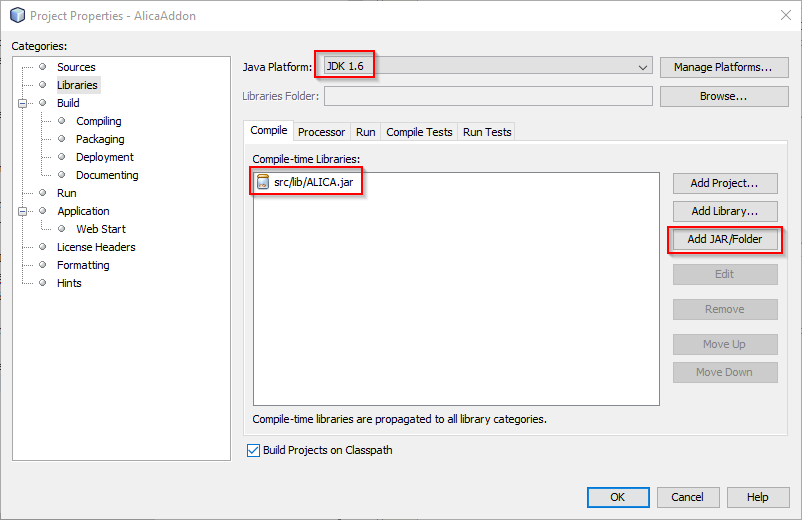
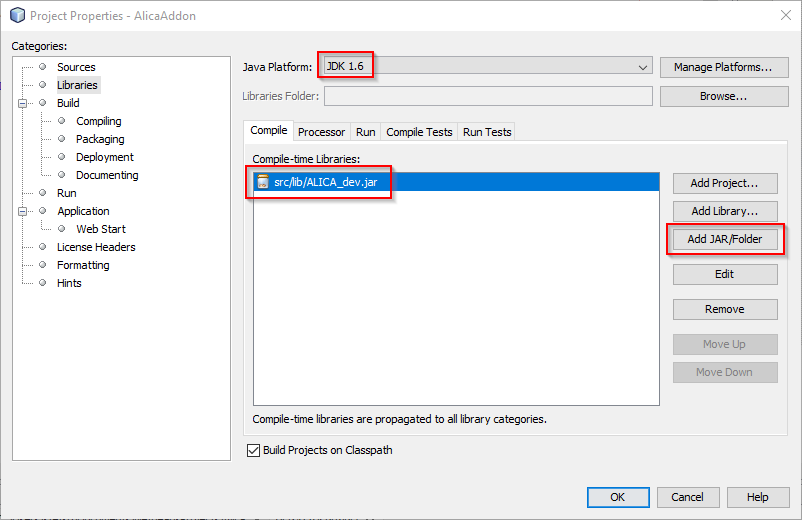
Improved extending guide

diff --git a/docs/source/conf.py b/docs/source/conf.py
@@ -60,9 +60,9 @@ author = 'Marcel Stefko, Kyle M. Douglass'
 # built documents.
 #
 # The short X.Y version.
-version = '0.2.0'
+version = '0.2.1'
 # The full version, including alpha/beta/rc tags.
-release = '0.2.0'
+release = '0.2.1'
 
 # The language for content autogenerated by Sphinx. Refer to documentation
 # for a list of supported languages.

diff --git a/docs/source/extending.rst b/docs/source/extending.rst
@@ -10,7 +10,7 @@ to creating a Controller.
 
 General knowledge of Java programming is assumed and recommended.
 
-**Required JDK version: 1.6.0_31** (Same as MicroManager's)
+**Required JDK version:** ``1.6.0_31`` (Same as MicroManager's)
 
 Implementing a custom Analyzer
 ++++++++++++++++++++++++++++++
@@ -18,11 +18,12 @@ Implementing a custom Analyzer
 Step 1: Importing the Analyzer interface
 ----------------------------------------
 
-First, download the ALICA.jar file from the relevant 
+First, download the ``ALICA_dev.jar`` file from the relevant 
 `release <https://github.com/MStefko/ALICA/releases>`_,
 and include it as a resource of your project (in NetBeans,
-add it to *Project Properties -> Libraries -> Compile-time Libraries*
-using the *Add JAR/Folder* button.
+add it to ``Project Properties -> Libraries -> Compile-time Libraries``
+using the ``Add JAR/Folder`` button). This jar file contains all ALICA libraries,
+as well as necessary MicroManager and ImageJ libraries.
 
 In the same pane, you have to ensure that your JDK version is 1.6
 (same as MicroManager's).
@@ -34,24 +35,28 @@ In the same pane, you have to ensure that your JDK version is 1.6
 Step 2: Implementing the Analyzer and its Setup/Status panels
 -------------------------------------------------------------
 
-Implement the `Analyzer` interface from package `ch.epfl.leb.alica`, and 
-extend the `AnalyzerSetupPanel` and (optionally) `AnalyzerStatusPanel`
-abstract classes from package `ch.epfl.leb.alica.analyzers`. Check the 
+Implement the ``Analyzer`` interface from package ``ch.epfl.leb.alica``, and 
+extend the ``AnalyzerSetupPanel`` and (optionally) ``AnalyzerStatusPanel``
+abstract classes from package ``ch.epfl.leb.alica.analyzers``. Check the 
 `API documentation <_javasphinx/packages.html>`_ for details. You can
 also consult the source code for already implemented Analyzers 
 on `GitHub <https://github.com/MStefko/ALICA/tree/master/src/ch/epfl/leb/alica/analyzers>`_.
 
-To give a little bit of intuition, the `AnalyzerSetupPanel` 
+.. image:: _images/netbeans_analyzer_creation.png
+   :alt: Implementing the Analyzer interface.
+   :align: center
+
+To give a little bit of intuition, the ``AnalyzerSetupPanel`` 
 serves as a Builder for Analyzers. In the Panel, the user can modify 
-initial settings of the Analyzer. When ALICA **Start** button is clicked,
-the `initAnalyzer()` method is triggered, which builds the Analyzer. This 
-Analyzer can provide a `AnalyzerStatusPanel`, which (if provided) is embedded
+initial settings of the Analyzer. When ALICA ``Start`` button is clicked,
+the ``initAnalyzer()`` method is triggered, which builds the Analyzer. This 
+Analyzer can provide a ``AnalyzerStatusPanel``, which (if provided) is embedded
 in the ALICA monitor GUI, and allows further interaction with the Analyzer.
 
 In NetBeans, it is easier to first create a Swing JPanel form, 
 implement user input fields, and then finally change the 
-`implements javax.swing.JPanel` declaration to 
-`extends ch.epfl.leb.alica.analyzers.AnalyzerSetupPanel`, 
+``implements javax.swing.JPanel`` declaration to 
+``extends ch.epfl.leb.alica.analyzers.AnalyzerSetupPanel``, 
 and implement the required methods (similarly for StatusPanel).
 
 .. image:: _images/netbeans_setup_panel_creation.png
@@ -62,8 +67,8 @@ Step 3: Compiling the created Analyzer
 --------------------------------------
 
 Once all required functionality is implemented, compile the project into a
-.jar file. Remember, that the jar filename **must** start with `ALICA_`,
-e.g. `ALICA_MyOwnAnalyzer.jar`. Place this jar file into the `mmplugins/`
+.jar file. Remember, that the jar filename **must** start with ``ALICA_``,
+e.g. ``ALICA_MyOwnAnalyzer.jar``. Place this jar file into the ``mmplugins/``
 folder of MicroManager.
 
 .. image:: _images/placing_jar_in_mmplugins.png
